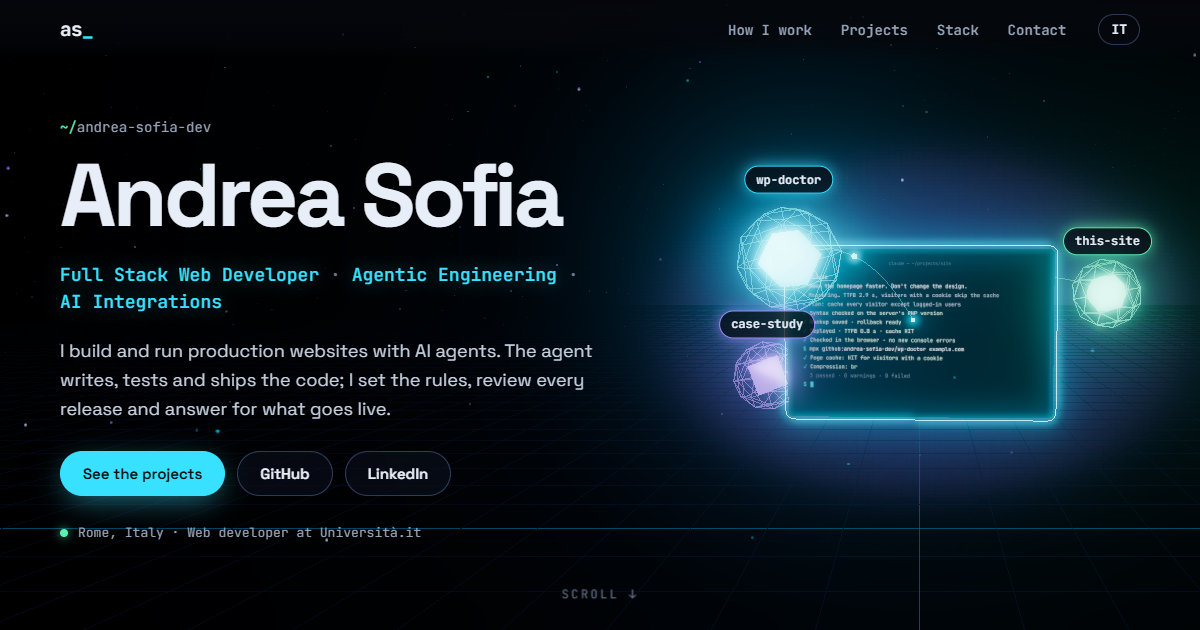
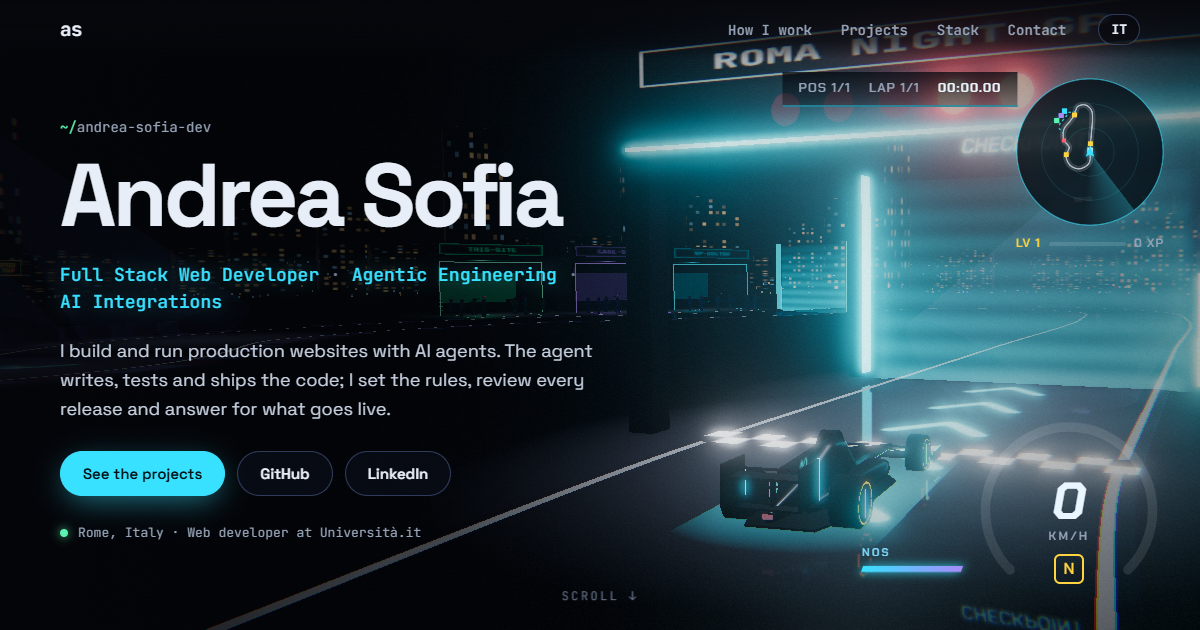
New preview image and README for the night-race portfolio

diff --git a/index.html b/index.html
@@ -18,7 +18,7 @@
     <meta property="og:title" content="Andrea Sofia · Full Stack Web Developer" />
     <meta
       property="og:description"
-      content="Full Stack Web Developer · Agentic Engineering · AI Integrations. A 3D portfolio built with Three.js and Claude Code."
+      content="Full Stack Web Developer · Agentic Engineering · AI Integrations. A night-race 3D portfolio built with Three.js and Claude Code."
     />
     <meta property="og:image" content="https://andrea-sofia-dev.github.io/og.png" />
     <meta property="og:image:width" content="1200" />

diff --git a/README.md b/README.md
@@ -1,30 +1,38 @@
 # andrea-sofia-dev.github.io
 
-My portfolio as a small 3D scene: a terminal where an AI agent ships a change, my projects orbiting around it,
-and the tools I use as a constellation. Scroll, and the camera flies from one to the next.
+My portfolio as one lap of a night race. Scrolling drives an open-wheel car round a city circuit: it waits on the
+grid for the lights to go out, passes a checkpoint for each section, pits at the garage of the project you are
+reading, and crosses the finish line at the end. Racing, video games and the gym are my hobbies, so they are all in.
 
 **Live: [andrea-sofia-dev.github.io](https://andrea-sofia-dev.github.io)**
 
-![The home page: name and title on the left, a glowing 3D terminal with three orbiting project nodes on the right](public/og.png)
+![The home page: name and title on the left; on the right the car on the grid under a light gate, with the game HUD](public/og.png)
 
 ## What's in it
 
-- **Three.js, no framework.** About 10 KB of JavaScript for the page itself; Three.js (~150 KB gzipped) loads
-  after the text, in its own chunk.
-- **The terminal is a canvas texture.** The session is typed one character at a time and the texture is redrawn
-  only when something changes.
-- **Scroll drives the camera.** Each section has a shot; the camera holds while the section is centred and flies
-  between shots. The mouse adds a little parallax.
-- **Cards and 3D are linked.** Hover a project card and its node lights up; click a node and its card scrolls into
-  view. Labels fade when a node passes behind the monitor.
+- **Scroll is the throttle.** Each section is a stop on the lap. Between stops a chase camera follows the car;
+  scroll fast and you get the nitro flame, speed lines, a wider field of view and a touch of chromatic aberration.
+- **The sections live on the circuit.** "How I work" plays on the pit wall screen (a terminal typing an agent
+  session); each project has a team garage; the skills are plates on the rack of the paddock gym.
+- **Pit stops.** In the projects section the car pits at the garage of the card in the middle of the screen, and
+  the crew does a stop: jacks up, wheels off and on, lollipop up.
+- **Game HUD.** Radar minimap and event feed, XP and levels, lap clock, speedometer with gear and nitro, toasts
+  for lights out, checkpoints, the speed trap and pit stops, race results at the finish.
+- **Night look.** Wet asphalt that reflects the car and the neon (a planar mirror under a see-through road),
+  bloom, neon reflections on the paint, a skyline and a grandstand full of phone flashes.
+- **Everything is built in code.** The car, the garages, the gym: no 3D models, no textures from outside, no real
+  team or brand.
 - **Two languages**, English and Italian, picked from the browser and switchable.
 
 ## Accessibility and performance
 
-- Text first: all the content is plain HTML, readable before the 3D loads and without WebGL at all.
-- `prefers-reduced-motion`: no camera flights and no idle animation. The scene cuts between shots and renders only
-  when something changes.
-- If the first frames are slow, the bloom is turned off and the resolution drops to 1×.
+- Text first: all the content is plain HTML, readable before the 3D loads and without WebGL at all. The HUD is
+  decoration and is hidden from screen readers; it sits under the text panels, so it never covers what you read.
+- `prefers-reduced-motion`: no driving, no camera flights, no HUD. The scene cuts between still shots and renders
+  only when something changes.
+- About 11 KB of JavaScript for the page; Three.js and the scene (~170 KB gzipped) load after the text.
+- Phones skip the wet-asphalt mirror. If the first frames are slow, the mirror and the bloom are turned off and
+  the resolution drops to 1×.
 - Self-hosted fonts. No cookies, no analytics, no requests to third parties.
 
 ## Run it
@@ -41,18 +49,27 @@ Every push to `main` is deployed to GitHub Pages by GitHub Actions.
 ## How it was built
 
 Agentically, with Claude Code. I set the goal and the constraints (text first, no trackers, works on a phone) and
-reviewed each step. The agent wrote the code, then checked it in headless Chrome at desktop and phone sizes:
-a screenshot of every section, console errors, horizontal overflow. Then it fixed what it found.
+steered the look: the first version was a space scene, then a military airfield, then this night race with the car,
+the pit stops and the HUD I asked for. The agent wrote the code and checked every round in headless Chrome at
+desktop and phone sizes: a screenshot of every section, console errors, horizontal overflow. Then it fixed what it
+found.
 
 ## Structure
 
 ```
-index.html        page content (English) and meta tags
-src/main.js       language switch, scroll → camera, card ↔ node links
-src/scene.js      Three.js scene: camera shots, orbits, bloom, labels
-src/terminal.js   the typed terminal (canvas texture)
-src/content.js    projects, skills, terminal script, Italian text
-src/style.css     layout and theme
+index.html            page content (English) and meta tags
+src/main.js           language switch, scroll → lap position, card ↔ garage links
+src/scene.js          renderer, camera shots, chase camera, post-processing, race events
+src/hud.js            the game HUD
+src/terminal.js       the typed terminal on the pit wall screen (canvas texture)
+src/content.js        projects, skills, terminal script, Italian text
+src/world/track.js    the circuit: spline, asphalt, kerbs, start line
+src/world/car.js      the car, lofted through oval cross-sections
+src/world/base.js     start gantry, pit wall screen, garages, grandstand, floodlights, skyline
+src/world/pit.js      pit lane, crews and the pit stop
+src/world/street.js   light-gate checkpoints, route arrows, speed trap
+src/world/gym.js      the paddock gym
+src/style.css         layout, theme and HUD
 ```
 
 ## License
